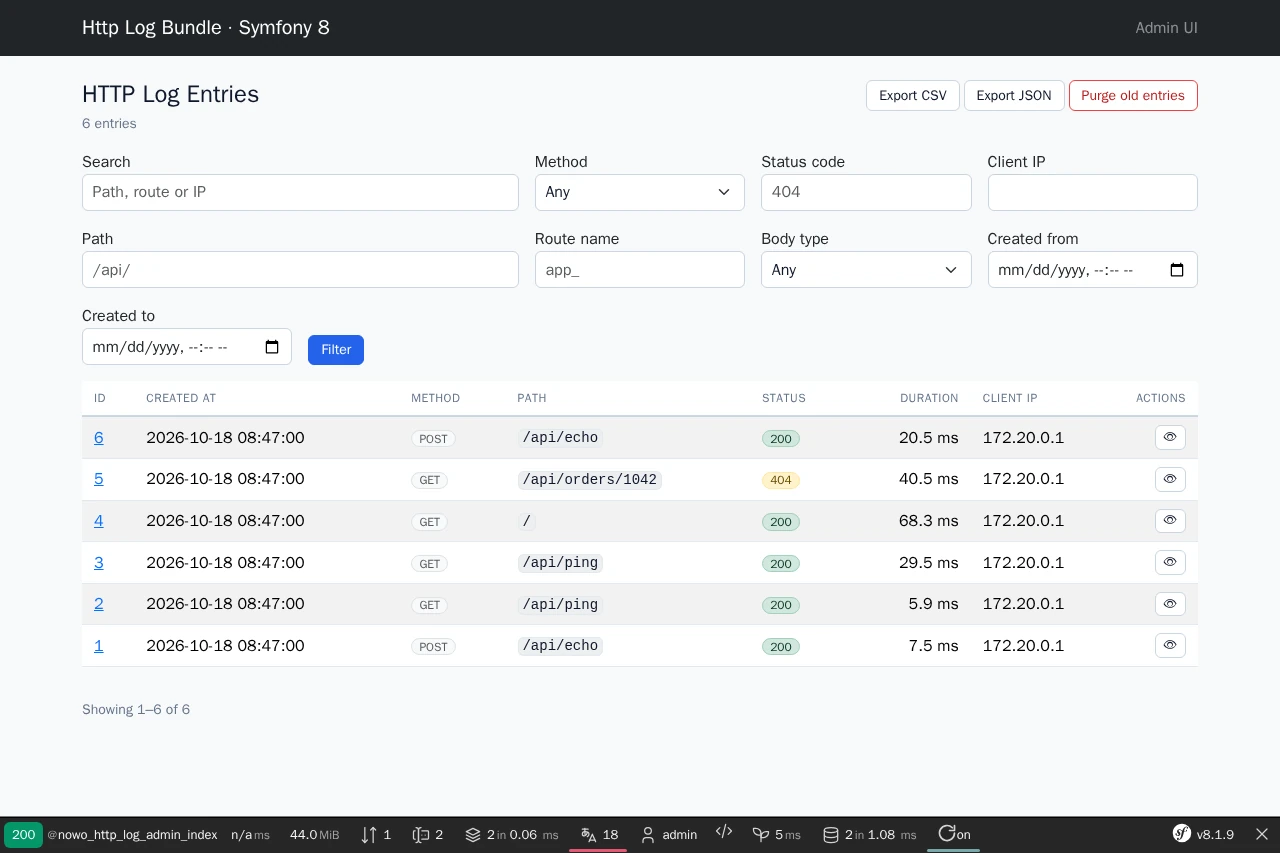
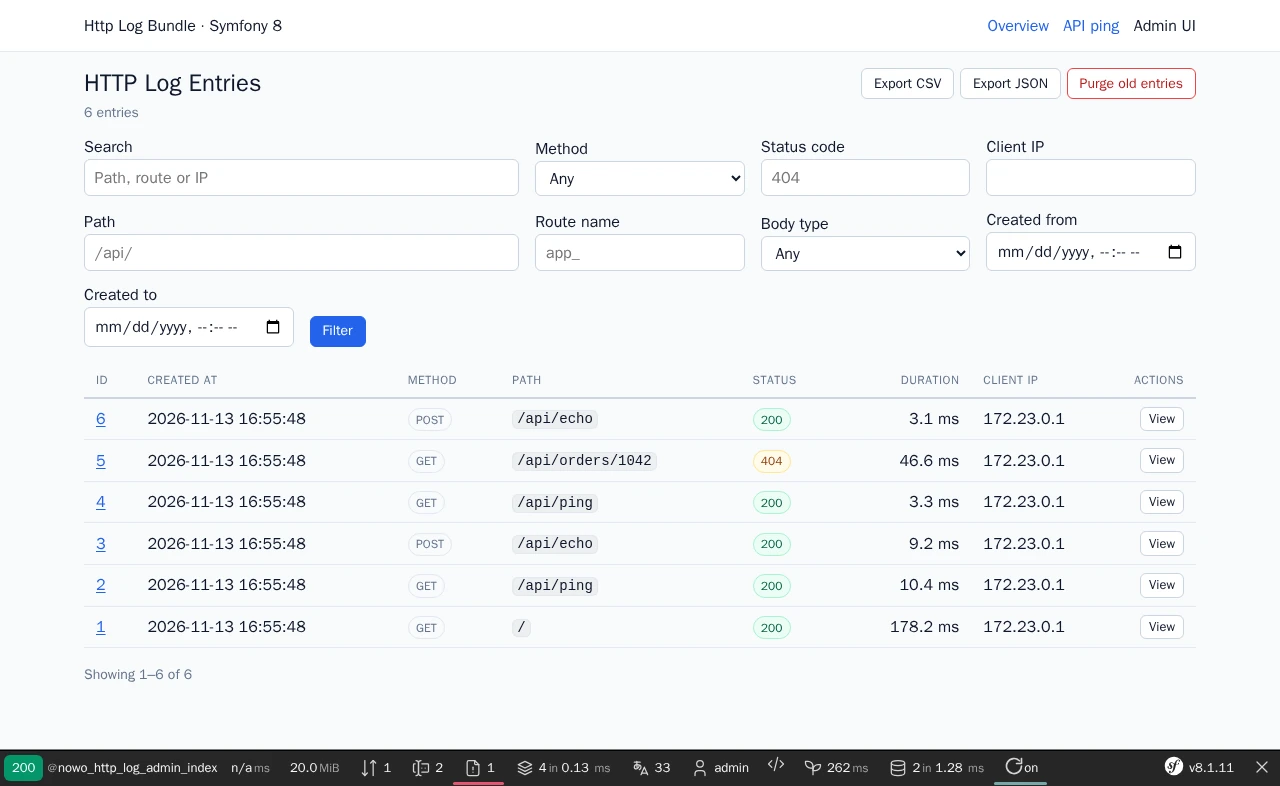
chore(docs): refresh demo screenshots on the UiKit base style (#62)
* chore(docs): refresh demo screenshots on the UiKit base style

* chore(docs): demo opts into UiKit base theme, masthead nav fixed, screenshots regenerated

* docs(changelog): note the demo theme switch

diff --git a/demo/symfony8/e2e/tests/screenshots.spec.ts b/demo/symfony8/e2e/tests/screenshots.spec.ts
@@ -13,7 +13,7 @@ const outDir = process.env.SCREENSHOT_DIR
 
 const WIDTH = 1280;
 const PAD = 16;
-const CHROME = 'nav.navbar, main';
+const CHROME = '.nowo-ui-header, main';
 
 test.use({ viewport: { width: WIDTH, height: 900 } });
 

diff --git a/demo/symfony8/config/reference.php b/demo/symfony8/config/reference.php
@@ -1491,6 +1491,7 @@ use Symfony\Component\Config\Loader\ParamConfigurator as Param;
  *             testid?: scalar|Param|null, // Default: null
  *         }>,
  *     },
+ *     base_stylesheet?: bool|Param, // 2.51: link UiKit's opt-in default theme (css/nowo-ui-base.css) before nowo-ui.css in the document / error layouts: body font stack, page gutters and masthead height for hosts that bring no CSS framework and no theme stylesheet. Its rules nest in `@layer theme.nowo-ui-base`, below `base`, so a framework, host utilities and unlayered host CSS still win. Leave it false when the host already has a framework or a theme file. // Default: false
  *     font_preload?: array{ // 2.21: <link rel="preload" as="font" crossorigin> tags printed in the <head> of the document and error layouts (Twig nowo_ui_font_preload()) for the fonts painted above the fold. Empty = no tags.
  *         fonts?: list<scalar|Param|null>,
  *         manifest?: array{ // Hashed builds: pick the fonts from a Vite manifest (.vite/manifest.json). A missing manifest (dev server) prints nothing.

diff --git a/docs/CHANGELOG.md b/docs/CHANGELOG.md
@@ -55,6 +55,8 @@ and this project adheres to [Semantic Versioning](https://semver.org/spec/v2.0.0
 
 ### Changed
 
+- docs: demo screenshots regenerated on the UiKit base style
+- demo: opt into UiKit 2.51 `nowo_ui_kit.base_stylesheet`, use `nowo-ui-header__nav` for the masthead nav, screenshots regenerated with the themed shell
 - `HttpLogEntryRepository::findOneBy()` accepts a `SortDirection` as well as a string order direction (Doctrine ORM 3.8 widened the `$orderBy` type); no behaviour change.
 
 ## [1.21.0] - 2026-11-13
